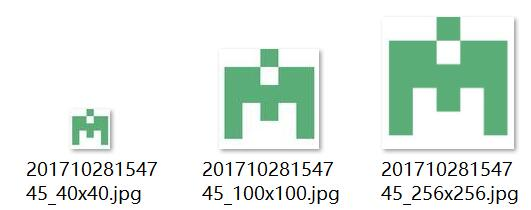
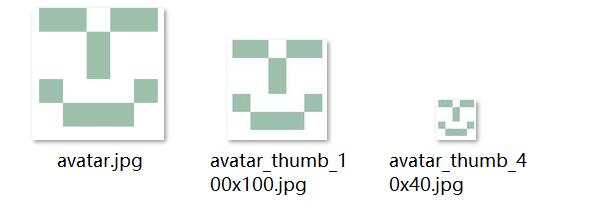
minor adjustment

diff --git a/random_avatar.py b/random_avatar.py
@@ -1,7 +1,7 @@
 # coding=utf-8
 import os
 import random
-from datetime import datetime
+import time
 
 from PIL import Image, ImageDraw
 
@@ -33,7 +33,8 @@ class Avatar(object):
                  (1, 3, 5),
                  (1, 5),
                  (2, 4),
-                 (3,))
+                 (3,),
+                 ())
         return random.choice(modes)
 
     @staticmethod
@@ -43,16 +44,17 @@ class Avatar(object):
         Simply use datetime string as filename, jpg as suffix
         :return:
         """
-        datetime_str = datetime.utcnow().strftime('%Y%m%d%H%M%S')
-        return '%s_%dx%d.%s' % (datetime_str, size, size, 'jpg')
+        timestamp = str(int(time.time()))
+        return '%s_%dx%d.%s' % (timestamp, size, size, 'jpg')
 
-    def generate_avatar(self, size, fp, min_border=10):
+    def generate_avatar(self, fp, fn, size=256, min_border=10):
         """
         Generate a random square avatar
         :param size: width / height (px)
         :param min_border: px
-        :param fp: where new image file to save, without filename
-        :return: a new file name
+        :param fp: path the new image file to save
+        :param fn: new file name
+        :return: path of new image
         """
         assert isinstance(size, int), 'Size is expected as a integer'
 
@@ -80,33 +82,32 @@ class Avatar(object):
                     for y in range(chunk*h, chunk*(h+1)):
                         draw.point((x, y), fill=color)
 
-        fn = self._file_name(size)
         new_avatar = os.path.join(fp, fn)
+        if fp and not os.path.exists(fp):
+            os.makedirs(fp)
         new_image.save(new_avatar, 'jpeg')
         return new_avatar
 
-    def generate_avatar_thumbs(self, avatar, sizes=(40, 100)):
+    def generate_thumb(self, avatar, size, fn=''):
         """
-        Generate avatar thumbs, like 100x100, 40x40
+        Generate avatar thumbs from avatar, like 100x100, 40x40
         :param avatar: avatar file path
-        :param sizes: sizes of avatar thumbs to be generated
+        :param size: size of avatar thumbs to be generated
+        :param fn: new filename
         """
-        thumbs = []
-
-        for size in sizes:
-            assert isinstance(size, int), 'Integers are expected'
+        assert isinstance(size, int), 'Integers are expected'
         img = Image.open(avatar)
         path = os.path.dirname(avatar)
-        for size in sizes:
-            filename = self._file_name(size)
-            new_img = img.resize((size, size), Image.ANTIALIAS)
-            _ = os.path.join(path, filename)
-            new_img.save(_)
-            thumbs.append(_)
-        return thumbs
+
+        new_img = img.resize((size, size), Image.ANTIALIAS)
+        thumb_path = os.path.join(path, fn)
+        new_img.save(thumb_path)
+        return thumb_path
 
 
 if __name__ == '__main__':
     a = Avatar()
-    _ = a.generate_avatar(256, '')
-    a.generate_avatar_thumbs(_)
+    WORKING_DIR = r'D:\test'
+    avatar = a.generate_avatar(fp=WORKING_DIR, fn='avatar.jpg', size=256)
+    a.generate_thumb(avatar, size=100, fn='avatar_thumb_100x100.jpg')
+    a.generate_thumb(avatar, size=40, fn='avatar_thumb_40x40.jpg')

diff --git a/README.md b/README.md
@@ -6,12 +6,13 @@ To generate random pixel avatar with Pillow
 
     a = Avatar()
 
-2 Generate a 256 px width and height avatar
+2 Generate a 256(default) px width and height avatar
 
-    avatar_path = a.generate_avatar(256, '')
+    avatar = a.generate_avatar(fp=r'D:\test', fn='avatar.jpg')
     
 3 Generate two thumbs from the generated avatar, 40x40 and 100x100
 
-    a.generate_avatar_thumbs(_, sizes=(40, 100))
+    a.generate_thumb(avatar, size=100, fn='avatar_thumb_100x100.jpg')
+    a.generate_thumb(avatar, size=40, fn='avatar_thumb_40x40.jpg')
 
 ![image](https://github.com/maoxiaowang/RandomAvatar/raw/master/screenshots/1.jpg)
